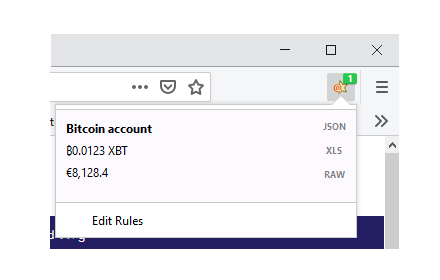
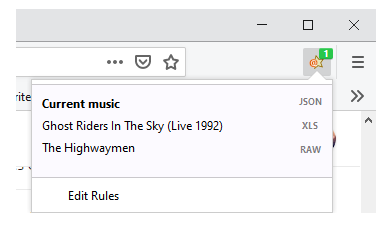
Update README.md

Changed region(s): [[0.0308, 0.0299, 0.9846, 0.9274]]

diff --git a/README.md b/README.md
@@ -55,7 +55,7 @@ You can do better stuff:
 - Edit XPath (even if contextual menu `Change Item #XX` allows easier change)
 - Validate if your rules are working properly (see dedicated section)
 
-![Add item](images/popup-renamed.png)
+![Add item](images/popup-renamed.png) ![Add item](images/rule-2.png)
 
 ## Clipboard
 
